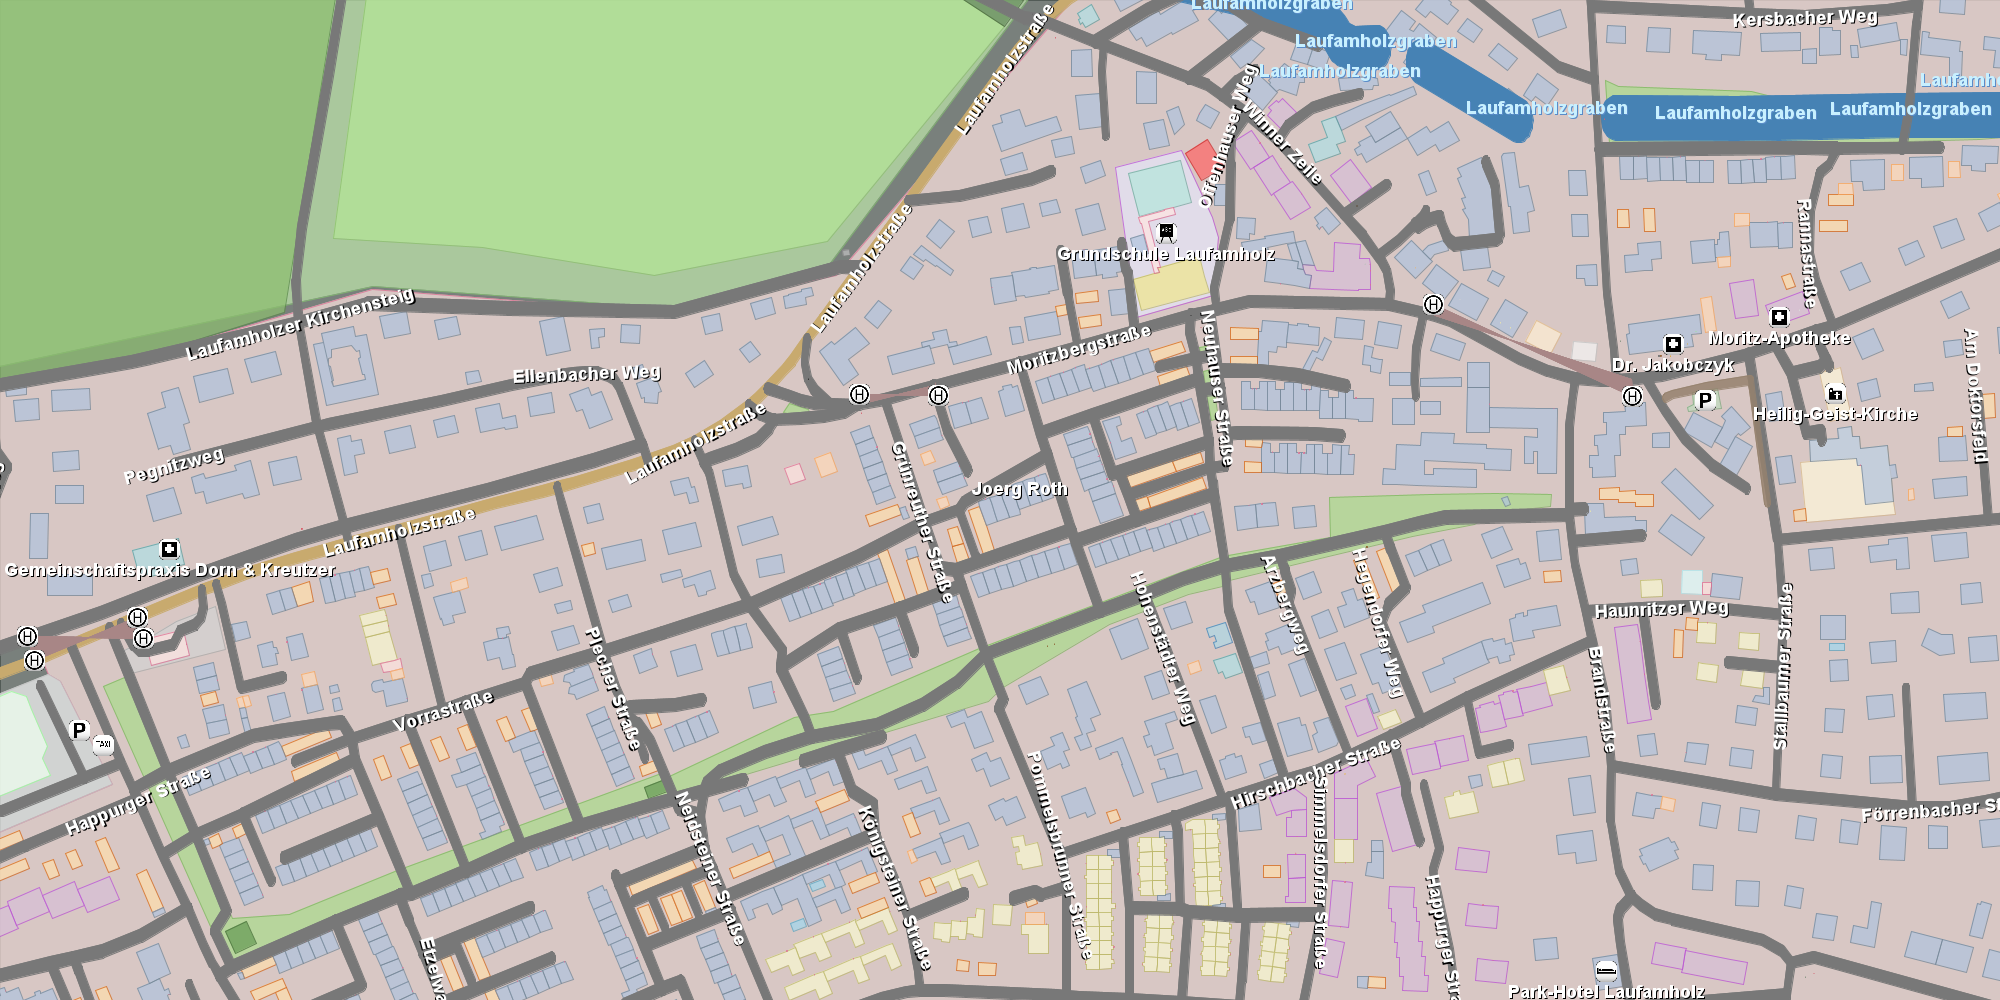
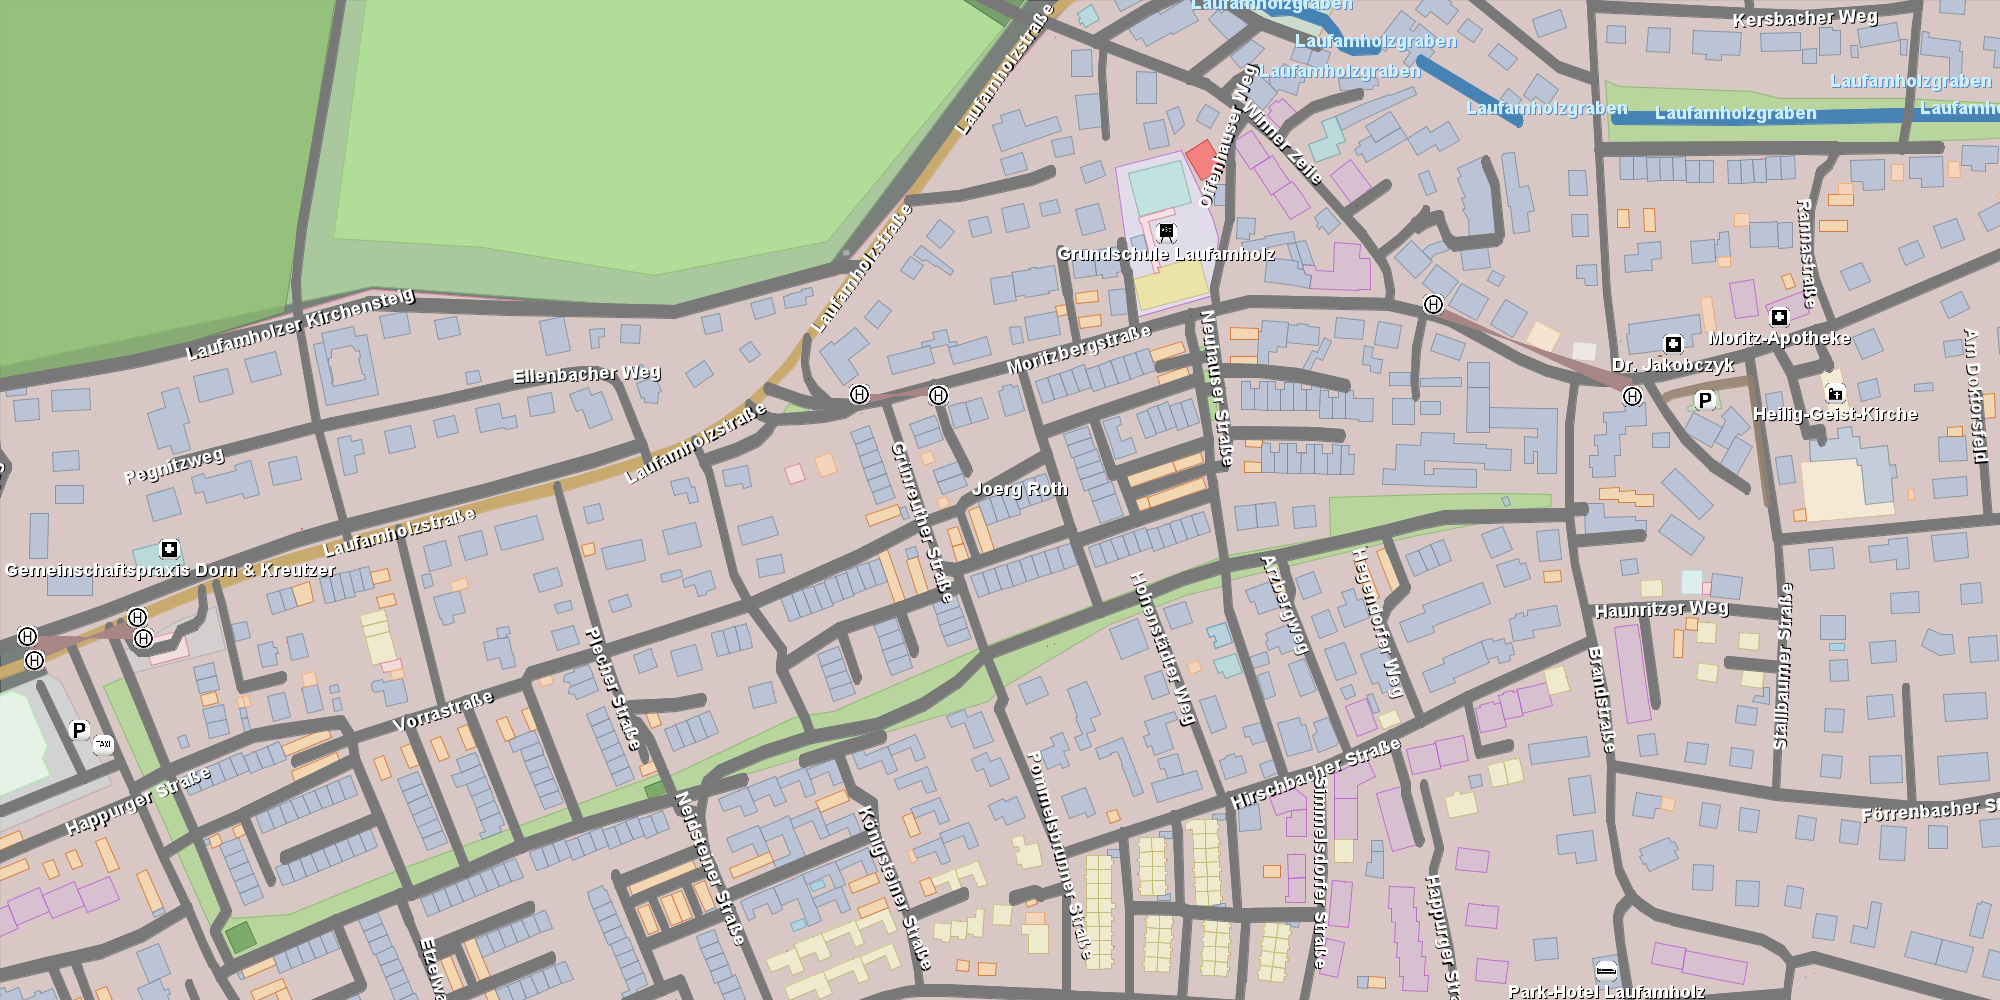
stuff

Changed region(s): [[0.806, 0.062, 1.0, 0.155], [0.62, 0.0, 0.775, 0.155]]

diff --git a/out/stan/LsiColorMap.java b/out/stan/LsiColorMap.java
@@ -29,7 +29,7 @@ public class LsiColorMap {
         colorMap.put("WATER", new ColorPair(new Color(70, 130, 180, 255), new Color(25, 90, 140, 255))); // steel blue tones
         colorMap.put("SCHUTZGEBIET", new ColorPair(new Color(70, 130, 180, 255), new Color(25, 90, 140, 255))); // steel blue tones
 
-        // ◼ Gebäude / Wohnen
+        // Gebaeude / Wohnen
         colorMap.put("GEWAECHSHAUS",        new ColorPair(new Color(144, 238, 144, 180), new Color(34, 139, 34, 200)));
         colorMap.put("UNTERSTAND",          new ColorPair(new Color(189, 252, 201, 180), new Color(85, 107, 47, 200)));
         colorMap.put("HUT",                 new ColorPair(new Color(255, 239, 186, 180), new Color(218, 165, 32, 200)));
@@ -52,7 +52,7 @@ public class LsiColorMap {
         colorMap.put("MELDUNGSEINRICHTUNGEN", new ColorPair(new Color(152, 251, 152, 180), new Color(60, 179, 113, 200)));
         colorMap.put("POWER_PLANT",         new ColorPair(new Color(255, 140, 105, 180), new Color(205, 92, 92, 200)));
 
-        // ◼ Akademisch / Bildung
+        // Akademisch / Bildung
         colorMap.put("SCHOOL_BUILDING",     new ColorPair(new Color(240, 230, 140, 180), new Color(189, 183, 107, 200)));
         colorMap.put("GRUNDSCHOOL",         new ColorPair(new Color(255, 250, 205, 180), new Color(238, 232, 170, 200)));
         colorMap.put("BERUFSSCHULE",        new ColorPair(new Color(144, 238, 144, 180), new Color(0, 128, 0, 200)));
@@ -66,7 +66,7 @@ public class LsiColorMap {
         colorMap.put("RESEARCH",            new ColorPair(new Color(255, 239, 213, 180), new Color(255, 160, 122, 200)));
         colorMap.put("LIBRARY",             new ColorPair(new Color(255, 182, 193, 180), new Color(199, 21, 133, 200)));
 
-        // ◼ Routen
+        // Routen
         colorMap.put("ROUTE",               new ColorPair(new Color(200, 230, 255, 180), new Color(150, 190, 240, 200)));
         colorMap.put("ROUTE_TRAIN",         new ColorPair(new Color(180, 210, 255, 180), new Color(130, 170, 240, 200)));
         colorMap.put("ROUTE_TRAM",          new ColorPair(new Color(160, 190, 255, 180), new Color(110, 150, 240, 200)));
@@ -74,7 +74,7 @@ public class LsiColorMap {
         colorMap.put("ROUTE_ROAD",          new ColorPair(new Color(120, 150, 255, 180), new Color( 70, 110, 240, 200)));
         colorMap.put("ROUTE_BICYCLE",       new ColorPair(new Color(100, 130, 255, 180), new Color( 50,  90, 240, 200)));
 
-        // ◼ Wasseraufbereitung & Management
+        // Wasseraufbereitung & Management
         colorMap.put("BRUNNEN",             new ColorPair(new Color(175, 238, 238, 180), new Color(0, 139, 139, 200)));
         colorMap.put("BASIN",               new ColorPair(new Color(0, 191, 255, 180), new Color(0, 0, 139, 200)));
         colorMap.put("RESERVOIR",           new ColorPair(new Color(30, 144, 255, 180), new Color(25, 25, 112, 200)));
@@ -86,7 +86,7 @@ public class LsiColorMap {
         colorMap.put("WASSERAUFBEREITUNG",  new ColorPair(new Color(0, 191, 255, 180), new Color(25, 25, 112, 200)));
         colorMap.put("ROHRLEITUNG",         new ColorPair(new Color(176, 196, 222, 180), new Color(119, 136, 153, 200)));
 
-        // ◼ Energie / Kraftwerk
+        // Energie / Kraftwerk
         colorMap.put("MUEHLE",              new ColorPair(new Color(255, 228, 196, 180), new Color(205, 133,  63, 200)));
         colorMap.put("WASSER_KRAFTWERK",    new ColorPair(new Color(135, 206, 250, 180), new Color( 70, 130, 180, 200)));
         colorMap.put("BRENN_POWER_PLANT",   new ColorPair(new Color(255, 160, 122, 180), new Color(178,  34,  34, 200)));
@@ -106,7 +106,7 @@ public class LsiColorMap {
         colorMap.put("POWER_PLANT_ADDON",   new ColorPair(new Color(255, 228, 225, 180), new Color(240, 128, 128, 200)));
 
 
-        // ◼ Übriges Industrie
+        // uebriges Industrie
         colorMap.put("MINING",              new ColorPair(new Color(205, 133,  63, 180), new Color(160,  82,  45, 200)));
         colorMap.put("INDUSTRIAL",          new ColorPair(new Color(176, 196, 222, 180), new Color(119, 136, 153, 200)));
 
@@ -138,7 +138,7 @@ public class LsiColorMap {
         colorMap.put("WEITERE_DIENSTLEISTUNGEN",    new ColorPair(new Color(240, 255, 240, 180), new Color(211, 211, 211, 200))); // pale green/grey
         colorMap.put("UEBERNACHTUNGEN",             new ColorPair(new Color(255, 239, 213, 180), new Color(210, 180, 140, 200))); // warm/soft beige
 
-        // Behörden
+        // Behoerden
         colorMap.put("BEHOERDE", new ColorPair(new Color(245, 245, 245, 180), new Color(190, 190, 190, 200))); // neutral grey-white
 
         // Medical
@@ -155,7 +155,7 @@ public class LsiColorMap {
         colorMap.put("TIERPARK",              new ColorPair(new Color(204, 255, 204, 180), new Color(152, 251, 152, 200))); // animal green
         colorMap.put("FREIZEIT",              new ColorPair(new Color(255, 228, 225, 180), new Color(255, 160, 122, 200))); // coral fun
 
-        // Ländlich
+        // Laendlich
         colorMap.put("LAENDLICH", new ColorPair(new Color(240, 255, 240, 180), new Color(189, 183, 107, 200))); // field green
 
         // Catch-all commercial
@@ -298,7 +298,6 @@ public class LsiColorMap {
     /**
      * Returns the color pair associated with the given LSI class.
      *
-     * @param lsiClass the LSI class name
      * @return the {@link ColorPair} for the class, or {@code null} if not defined
      */
     public static ColorPair getColor(String key) {

diff --git a/out/stan/MapRenderer.java b/out/stan/MapRenderer.java
@@ -200,7 +200,7 @@ public class MapRenderer {
 
         for (DomainFeature feature : waterGeoms) {
             if(!feature.tags().contains("tunnel"))
-                if(feature.tags().toLowerCase().contains("stream")){
+                if(feature.tags().toLowerCase().contains("stream") || feature.tags().toLowerCase().contains("ditch")){
                     addDomainFeatureToGlobalList(feature, fillColor, borderColor, 0.00003);
                 }
                 else
@@ -238,6 +238,7 @@ public class MapRenderer {
         Color fillColor = new Color(149, 6, 49, 180);
         Color borderColor = new Color(87, 2, 21, 236);
 
+        // Extract the most important house of them all
         for (DomainFeature feature : residentialGeoms) {
             if(feature.id() == 736068){
                 Coordinate center = feature.geometry().getCentroid().getCoordinate();

diff --git a/out/stan/DataFetcher.java b/out/stan/DataFetcher.java
@@ -32,13 +32,13 @@ public class DataFetcher {
                                                   int wPx, int hPx,
                                                   double widthMeters) {
 
-        // Approximate scale factors für Nuernberg:
-        // 1 Grad Länge ~ 72.300 m
+        // Approximate scale factors fuer Nuernberg:
+        // 1 Grad Laenge ~ 72.300 m
         // 1 Grad Breite ~ 111.320 m
         final double metersPerDegLon = 72300;
         final double metersPerDegLat = 111320;
 
-        // Halbe Breite und Höhe in Grad berechnen
+        // Halbe Breite und Hoehe in Grad berechnen
         double halfWidthDeg = (widthMeters / 2.0) / metersPerDegLon;
         double heightMeters = widthMeters * ((double) hPx / wPx);
         double halfHeightDeg = (heightMeters / 2.0) / metersPerDegLat;

diff --git a/src/stan/MapRenderer.java b/src/stan/MapRenderer.java
@@ -200,7 +200,7 @@ public class MapRenderer {
 
         for (DomainFeature feature : waterGeoms) {
             if(!feature.tags().contains("tunnel"))
-                if(feature.tags().toLowerCase().contains("stream")){
+                if(feature.tags().toLowerCase().contains("stream") || feature.tags().toLowerCase().contains("ditch")){
                     addDomainFeatureToGlobalList(feature, fillColor, borderColor, 0.00003);
                 }
                 else

diff --git a/out/stan/LabelRenderer.java b/out/stan/LabelRenderer.java
@@ -153,7 +153,7 @@ public class LabelRenderer {
                     .stream().anyMatch(p -> p.distance(baseLabelPos) < labelMinDistance);
             if (tooClose) continue;
 
-            // Text-Maße berechnen
+            // Text-Masse berechnen
             String label = road.realname();
             int textWidth = fm.stringWidth(label);
             int textHeight = fm.getHeight();
